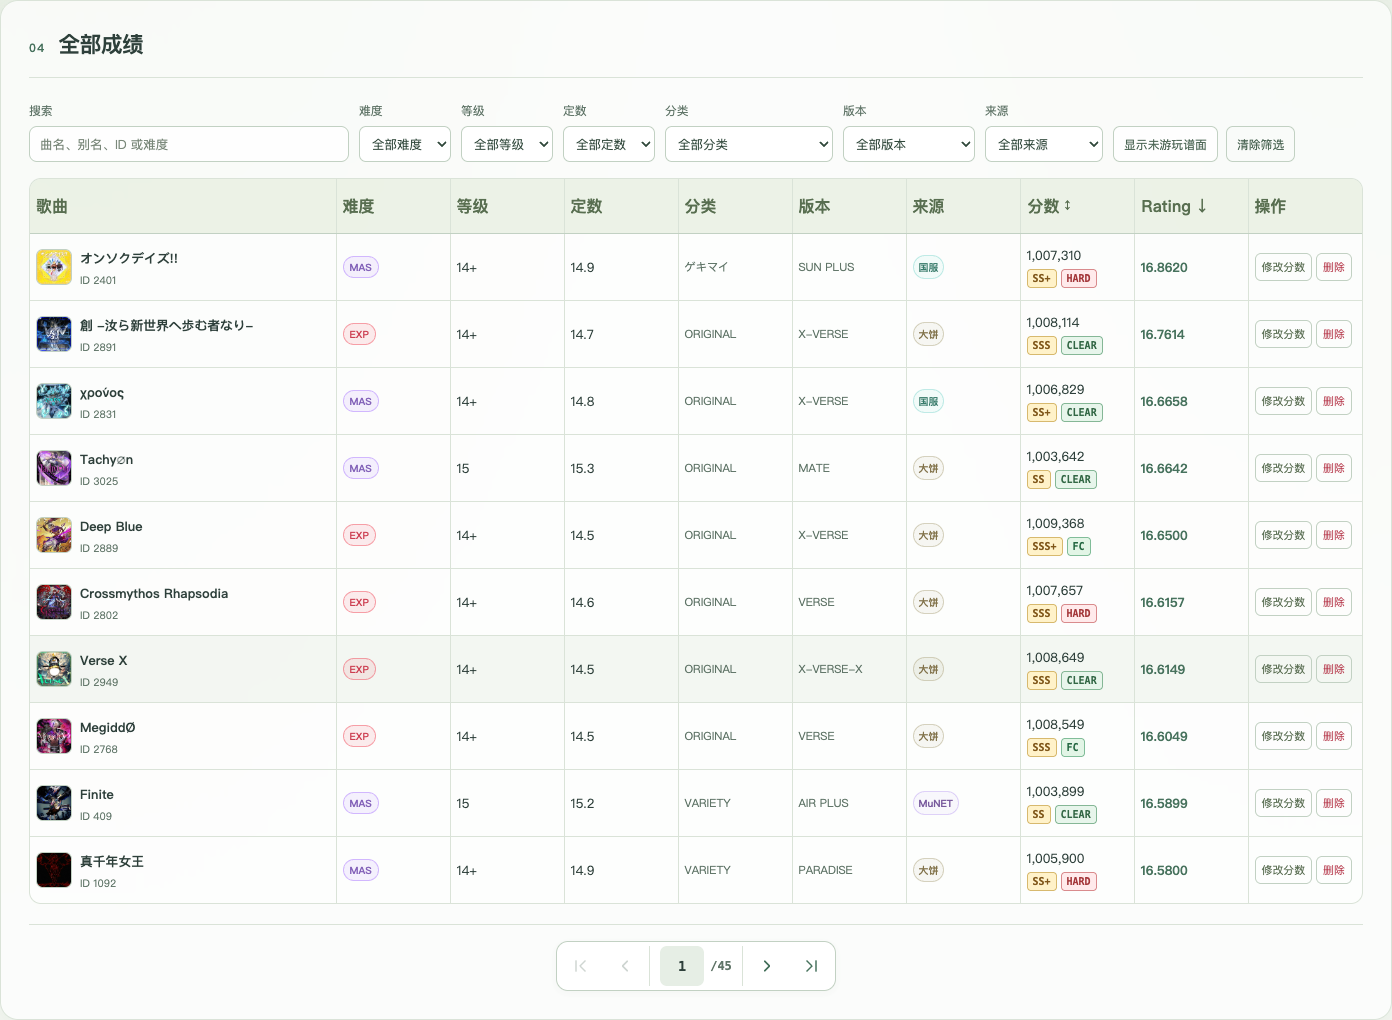
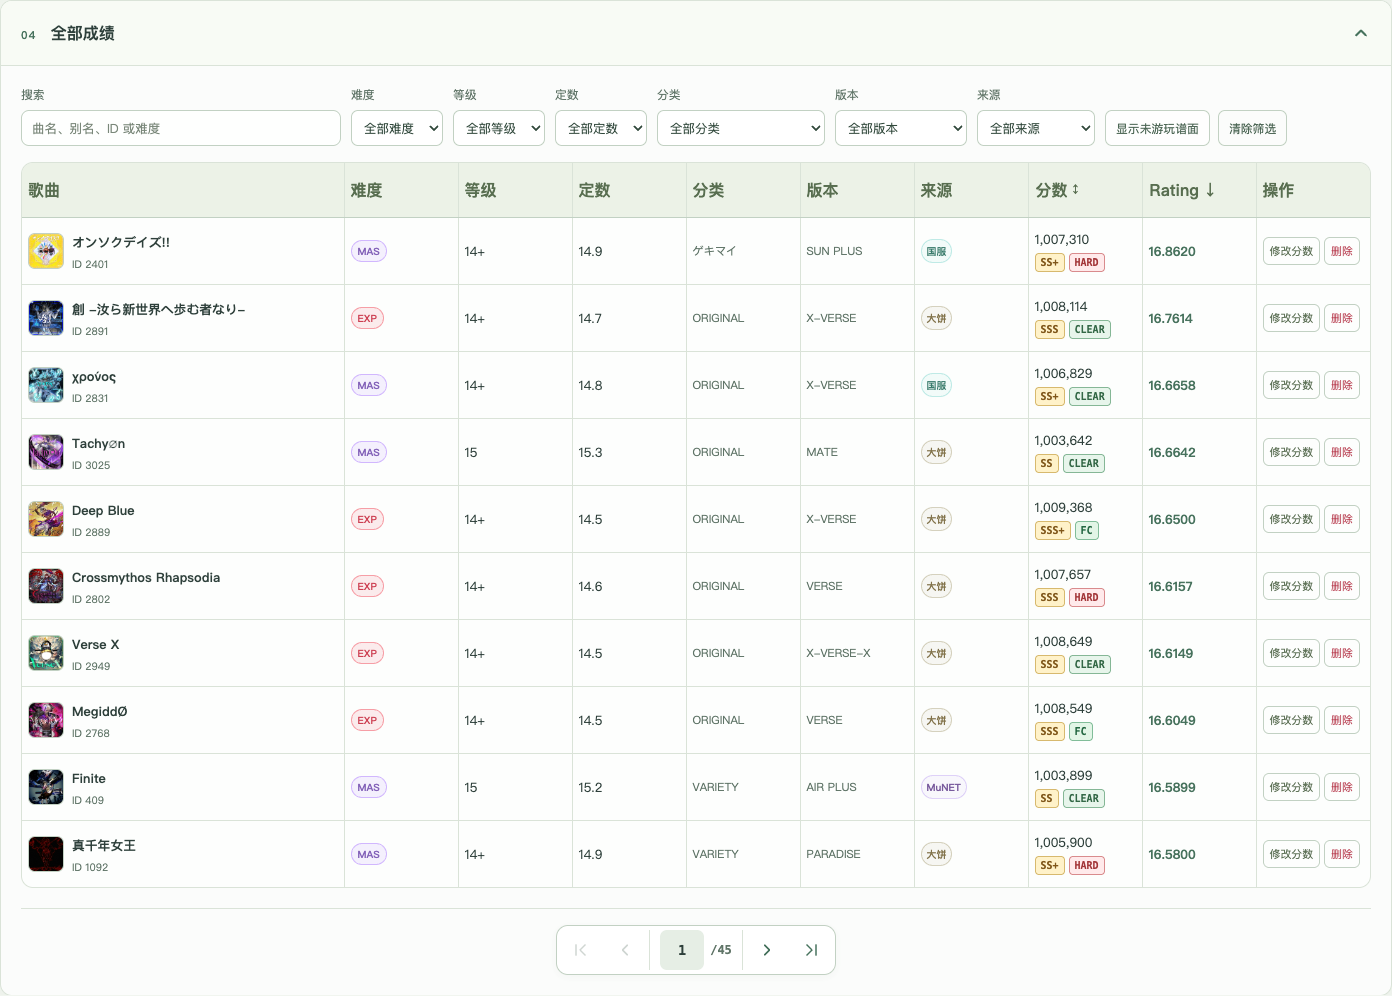
docs: 更新折叠界面和等级定数全选的真实截图

diff --git a/README.md b/README.md
@@ -19,13 +19,27 @@
 
 ## 当前看板
 
+![服务器当前工作区完整页面，全部成绩和定数表默认收起，底部间距已缩短](docs/previews/workspace-pc.png)
+
+<details>
+<summary>查看手机完整页面</summary>
+
+<img src="docs/previews/workspace-mobile.png" alt="手机上的服务器真实工作区，展示默认收起的成绩和定数表" width="390">
+
+</details>
+
+<details>
+<summary>查看 BEST 30 看板近景</summary>
+
 ![服务器真实工作区中的 BEST 30 看板，包含导出昵称、导出操作和 Rating 柱状图](docs/previews/dashboard-pc.png)
+
+</details>
 
 | 已保存成绩 | B30 Rating | 评分曲库 | 成绩来源 |
 | :---: | :---: | :---: | :---: |
 | **446** 张谱面 | **16.5442** | **1,522** 张 13.0+ 谱面 | **4** 个 |
 
-截图和统计采集于 **2026-11-03（UTC+8）**，直接来自服务器上的实际工作区，为静态快照。曲库为 **2026-11-01 MATE** 快照，包含 **1,255** 首歌曲，支持 EXP / MAS / ULT。[查看采集记录](docs/previews/metadata.json)。线上看板需要登录，网页暂不提供注册。
+截图和统计采集于 **2026-11-03 17:27（UTC+8）**，直接来自服务器上的实际工作区，为静态快照。曲库为 **2026-11-01 MATE** 快照，包含 **1,255** 首歌曲，支持 EXP / MAS / ULT。[查看采集记录](docs/previews/metadata.json)。线上看板需要登录，网页暂不提供注册。
 
 ## 从来源同步到成绩导出
 
@@ -50,13 +64,13 @@
   </tr>
 </table>
 
-搜索曲名、别名或 ID，按难度、等级、定数、分类、版本和来源筛选，也可查看未游玩谱面。每页 10 项；分数与 Rating 只能选择一项排序，同值时比较另一项，升降方向一致。点击曲名打开详情，并管理自己的个人别名。
+「全部成绩」默认收起，展开后可搜索曲名、别名或 ID，按难度、等级、定数、分类、版本和来源筛选，也可查看未游玩谱面。每页 10 项；分数与 Rating 只能选择一项排序，同值时比较另一项，升降方向一致。点击曲名打开详情，并管理自己的个人别名。
 
-## 定数表：选定数，再看成绩
+## 定数表：选等级，查看全部定数
 
-![真实服务器工作区生成的 14.0 定数表，顶部为五项筛选，下方同时显示曲绘和成绩](docs/previews/constants-pc.png)
+![真实服务器工作区生成的 15+ 等级全部定数，包含当前条件下存在的 15.5 至 15.8 分组](docs/previews/constants-pc.png)
 
-定数位于等级后方，使用联动单选下拉框。生成后可切换纯封面或成绩视图，并导出 PNG；手机自动调整列数。曲库不存在的定数不会出现在选项中。
+「定数表」默认收起，展开后可选择具体定数；选定一个等级后，也可选择该等级的「全部定数」，「全部等级」下禁用此选项。选项随难度、分类和版本联动，曲库不存在的定数不会出现。生成后可切换纯封面或成绩视图并导出 PNG，手机自动调整列数；两区收起后保留筛选和已生成结果。
 
 ## 导出结果，直接预览
 
